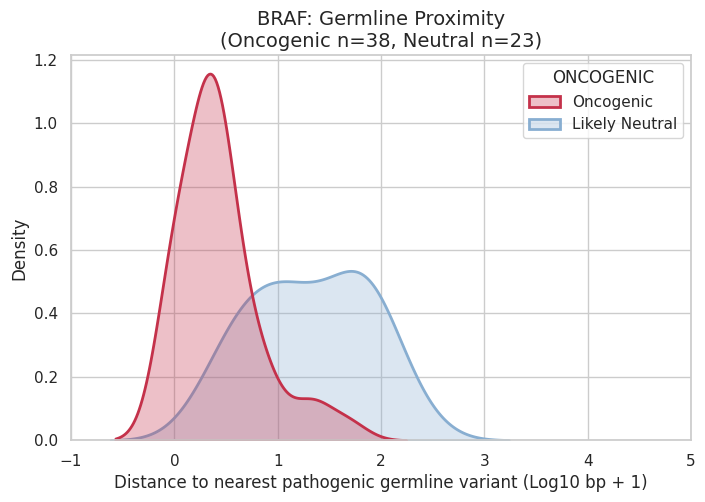
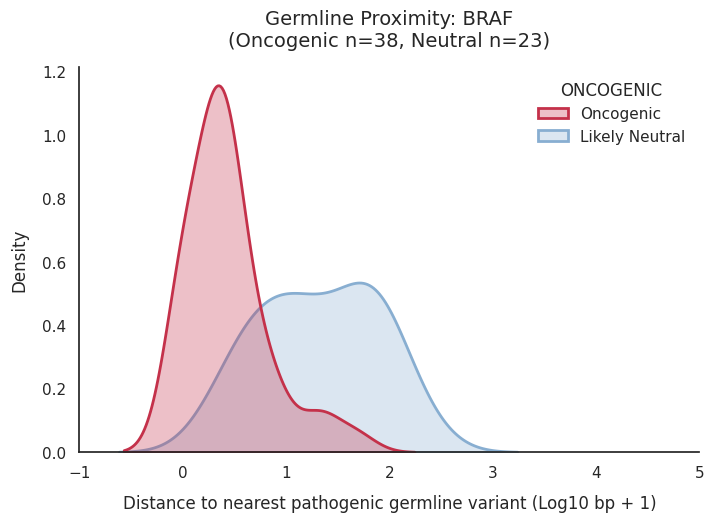
update germline plots

diff --git a/scripts/EDA/germline_proximity.py b/scripts/EDA/germline_proximity.py
@@ -185,6 +185,8 @@ print(f"Plotting complete! Plot saved as '{save_dir}/combined_dist.png'.\n")
 print("-"*50)
 print("Plotting germline distances per class..\n")
 
+sns.set_style("white")
+
 g = sns.FacetGrid(
     variants_plot, col="ONCOGENIC", hue="ONCOGENIC",
     palette=palette, height=4, aspect=1.2, sharey=True
@@ -198,10 +200,12 @@ for ax, label in zip(g.axes.flat, wanted_classes):
     n_count = len(subset)
 
     ax.axvline(median_val, color="black", linestyle="--", alpha=0.7)
-    ax.set_title(f"{label} (n={n_count})\n(Median: 10^{median_val:.1f} bp)", fontsize=12)
+    actual_median = (10**median_val) - 1
+    ax.set_title(f"{label} (n={n_count})\n(Median: {actual_median:.0f} bp)", fontsize=12)
 
 g.set_axis_labels("Log10(Distance + 1)", "Proportion")
 
+sns.despine() 
 plt.tight_layout()
 plt.savefig(f"{save_dir}/dists_per_class.png", bbox_inches="tight")
 plt.show()
@@ -259,6 +263,7 @@ for gene in top_genes_full.head(20).index:
     n_neut = len(gene_data[gene_data["ONCOGENIC"] == "Likely Neutral"])
 
     plt.figure(figsize=(8, 5))
+    sns.set_style("white") 
 
     ax = sns.kdeplot(
         data=gene_data,
@@ -271,11 +276,13 @@ for gene in top_genes_full.head(20).index:
         linewidth=2
     )
 
-    sns.move_legend(ax, "upper right")
+    sns.move_legend(ax, "upper right", frameon=False)
+    sns.despine() 
+
     plt.xlim(-1, 5)
-    plt.title(f"{gene}: Germline Proximity\n(Oncogenic n={n_onco}, Neutral n={n_neut})", fontsize=14)
-    plt.xlabel("Distance to nearest pathogenic germline variant (Log10 bp + 1)", fontsize=12)
-    plt.ylabel("Density", fontsize=12)
+    plt.title(f"Germline Proximity: {gene}\n(Oncogenic n={n_onco}, Neutral n={n_neut})", fontsize=14, pad=15)
+    plt.xlabel("Distance to nearest pathogenic germline variant (Log10 bp + 1)", fontsize=12, labelpad=10)
+    plt.ylabel("Density", fontsize=12, labelpad=10)
     plt.savefig(f"{save_dir}/dist_{gene}.png", bbox_inches="tight")
     plt.show()
 
@@ -285,8 +292,9 @@ for gene in top_genes_full.head(20).index:
 # Save variants with germline distances in top genes to .tsv 
 # ------------------------------------------------------------
 
-print("Saving variants with germline distances to .tsv file..")
+print("Saving variants with germline distances in top genes to .tsv file..")
 top_20_genes = top_genes_full.head(20).index.tolist() 
+print(f"The top 20 genes: {top_20_genes}")
 top_20_variants = variants_plot[variants_plot["Hugo_Symbol"].isin(top_20_genes)]
 
 # save as .tsv 
